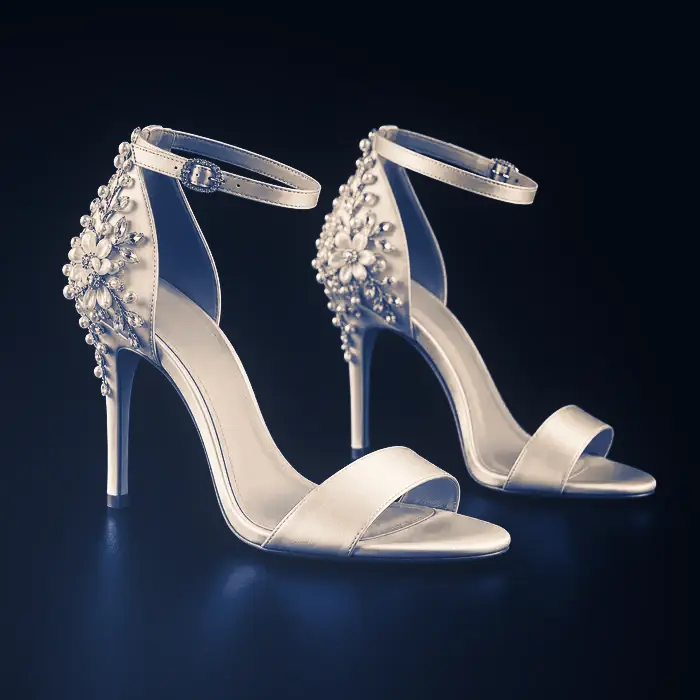
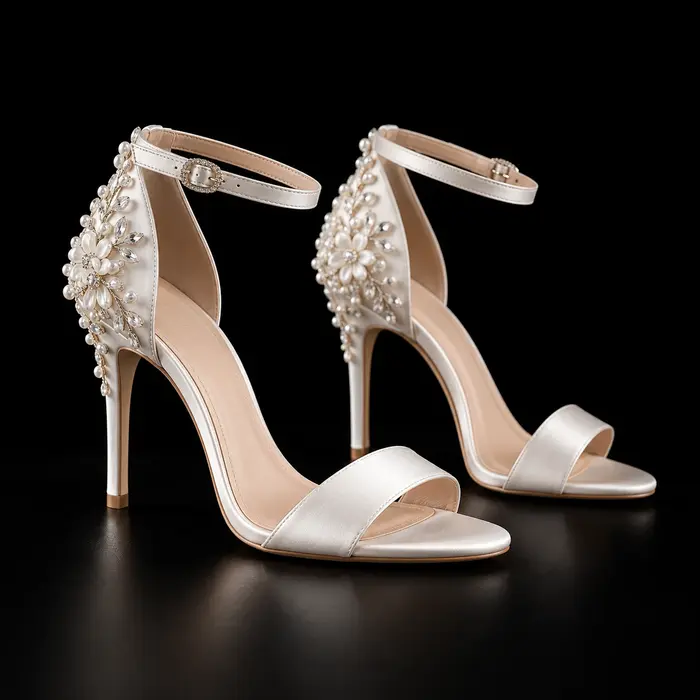
Biała Lilia: restore original photos with the light CSS tint
Claude-Session: https://claude.ai/code/session_01H5XhZnRcfDutvbcj5aEZZv

diff --git a/lilia/index.html b/lilia/index.html
@@ -86,7 +86,8 @@ h1 em, h2 em { font-style: italic; color: var(--gold); }
   content: attr(data-label); position: absolute; left: 18px; bottom: 16px;
   font: italic 400 15px/1 var(--display); color: rgba(13,13,13,.4);
 }
-.ph img, .ph video { position: absolute; inset: 0; width: 100%; height: 100%; object-fit: cover; }
+.ph img, .ph video { position: absolute; inset: 0; width: 100%; height: 100%; object-fit: cover; filter: grayscale(1) sepia(.3) hue-rotate(178deg) saturate(1.5) contrast(1.05); }
+.hero__media video, .finale__media video { filter: none; }
 .ph:has(img, video)::after { content: none; }
 
 /* hero */
